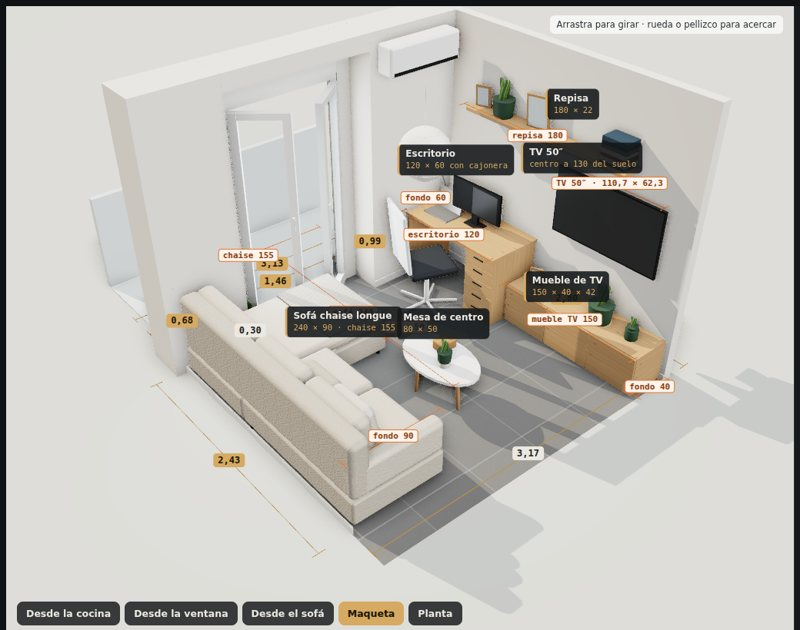
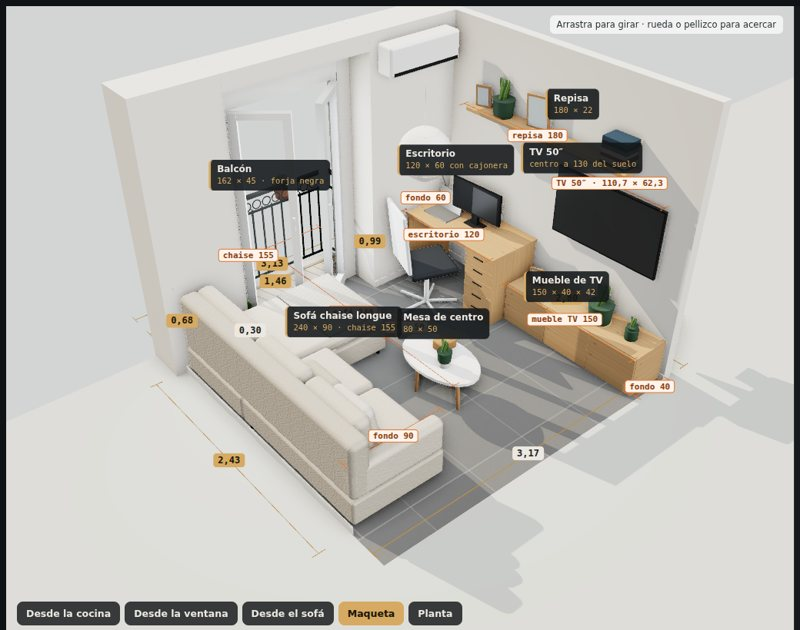
Balcón de asomarse con barandilla de forja negra

Changed region(s): [[0.25, 0.2413, 0.4375, 0.4222], [0.5, 0.4524, 0.5625, 0.4825], [0.3125, 0.4222, 0.3438, 0.4524]]

diff --git a/js/main.js b/js/main.js
@@ -9,7 +9,7 @@ import { GTAOPass } from 'three/addons/postprocessing/GTAOPass.js';
 import { UnrealBloomPass } from 'three/addons/postprocessing/UnrealBloomPass.js';
 import { OutputPass } from 'three/addons/postprocessing/OutputPass.js';
 import { RectAreaLightUniformsLib } from 'three/addons/lights/RectAreaLightUniformsLib.js';
-import { DEFAULT_ROOM, ROOM_LIMITS, T, DEFAULT_FURNITURE, FURNITURE_LIMITS, HEIGHTS, WINDOW, CATALOG, PRESETS, DEFAULT_DESIGN } from './config.js';
+import { DEFAULT_ROOM, ROOM_LIMITS, T, DEFAULT_FURNITURE, FURNITURE_LIMITS, HEIGHTS, WINDOW, BALCONY, CATALOG, PRESETS, DEFAULT_DESIGN } from './config.js';
 import { createTextures } from './textures.js';
 import { panelInfo } from './info.js';
 
@@ -114,7 +114,8 @@ const M = {
   white: std('#F5F5F3', 0.4),
   paper: new THREE.MeshStandardMaterial({ color: '#fbf7ef', roughness: 0.9, emissive: '#ffd9a0', emissiveIntensity: 0, side: THREE.DoubleSide }),
   ground: std('#c9ccc7', 0.95),
-  outside: std('#dfe7e8', 0.9),
+  slab: std('#d6d1c8', 0.7),
+  iron: std('#151617', 0.5, 0.55),
   leaf: std('#4E6B3A', 0.8),
   leafLight: std('#6d8f4a', 0.8),
   pot: std('#EDEAE4', 0.5),
@@ -262,8 +263,9 @@ function buildRoom() {
   const pts = [[0, 0], [nx0, 0], [nx0, zb], [nx1, zb], [nx1, 0], [Wt, 0], [xR(R), R], [0, R]];
   const floor = new THREE.Mesh(new THREE.ShapeGeometry(new THREE.Shape(pts.map(([x, z]) => new THREE.Vector2(x, -z)))), M.floor);
   floor.rotation.x = -Math.PI / 2; floor.receiveShadow = true; roomGroup.add(floor);
-  const ground = new THREE.Mesh(new THREE.PlaneGeometry(80, 80), M.ground);
-  ground.rotation.x = -Math.PI / 2; ground.position.set(Wt / 2, -0.012, L / 2); ground.receiveShadow = true; roomGroup.add(ground);
+  // Suelo de alrededor solo por dentro de la fachada: al otro lado del balcón hay vacío
+  const ground = new THREE.Mesh(new THREE.PlaneGeometry(80, 40), M.ground);
+  ground.rotation.x = -Math.PI / 2; ground.position.set(Wt / 2, -0.012, -nicheD - T + 20); ground.receiveShadow = true; roomGroup.add(ground);
 
   // Rodapié
   const sk = a => B(roomGroup, ...a, M.skirting);
@@ -288,9 +290,8 @@ function buildRoom() {
     roomAnim.push({ obj: p.rotation, key: 'y', closed: 0, open: sign > 0 ? -1.35 : 1.35 });
   };
   leaf(glass0 + 0.06, 1); leaf(glass1 - 0.06, -1);
-  // Exterior: un balcón luminoso
-  B(roomGroup, nx0 - 0.6, nx1 + 0.6, -0.02, 0, zb - T - 1.3, zb - T, M.outside);
-  B(roomGroup, nx0 - 0.6, nx1 + 0.6, 0, 1.0, zb - T - 1.36, zb - T - 1.3, M.outside);
+  // Balcón de asomarse: losa estrecha y barandilla de forja negra
+  balcony(roomGroup, nx0 - 0.08, nx1 + 0.08, zb - T);
 
   // Luz de cielo por la balconera
   skyLights = new THREE.Group(); roomGroup.add(skyLights);
@@ -320,6 +321,38 @@ function buildRoom() {
   dim(dims, [xR(R) + o, y0, 0], [xR(R) + o, y0, R], fmt(R));
   dim(dims, [0, y0, L + 0.25], [xR(L), y0, L + 0.25], fmt(G.Wb), true);
   dim(dims, [nx0 + 0.08, y0, zb], [nx0 + 0.08, y0, 0], fmt(nicheD), true);
+}
+/* Balcón típico de asomarse: losa de 45 cm con goterón y barandilla de forja (barrotes, pasamanos y una cenefa de anillas) */
+function balcony(g, x0, x1, zf) {
+  const b = new THREE.Group(); g.add(b);
+  const D = BALCONY.depth, z1 = zf - D, hR = BALCONY.rail;
+  B(b, x0, x1, -0.14, 0, z1, zf, M.slab);                                   // losa
+  B(b, x0 - 0.01, x1 + 0.01, -0.16, -0.12, z1 - 0.01, zf, M.slab);          // goterón
+  B(b, x0 - 0.3, x1 + 0.3, -0.16, 0, zf - 0.02, zf, M.slab, { cast: false }); // canto de la fachada
+  const bar = (xa, za, xb, zb2, y0, y1) => { const len = Math.hypot(xb - xa, zb2 - za), m = B(b, -0.006, 0.006, y0, y1, -len / 2, len / 2, M.iron); m.position.set((xa + xb) / 2, (y0 + y1) / 2, (za + zb2) / 2); m.rotation.y = Math.atan2(xb - xa, zb2 - za); return m; };
+  const inset = 0.03, fx0 = x0 + inset, fx1 = x1 - inset, fz = z1 + inset;
+  // Pasamanos (pletina) y travesaños
+  B(b, fx0 - 0.02, fx1 + 0.02, hR - 0.03, hR, fz - 0.025, fz + 0.025, M.iron);
+  [[fx0, zf], [fx1, zf]].forEach(([x]) => B(b, x - 0.02, x + 0.02, hR - 0.03, hR, fz - 0.025, zf, M.iron));
+  [0.06, hR - 0.2].forEach(y => { B(b, fx0, fx1, y, y + 0.02, fz - 0.008, fz + 0.008, M.iron); [fx0, fx1].forEach(x => B(b, x - 0.008, x + 0.008, y, y + 0.02, fz, zf, M.iron)); });
+  // Postes en las esquinas
+  [fx0, fx1].forEach(x => B(b, x - 0.015, x + 0.015, 0, hR, fz - 0.015, fz + 0.015, M.iron));
+  // Barrotes cada 11 cm con cenefa de anillas arriba
+  const n = Math.round((fx1 - fx0) / 0.11);
+  for (let i = 1; i < n; i++) {
+    const x = fx0 + (fx1 - fx0) * i / n;
+    B(b, x - 0.007, x + 0.007, 0.06, hR - 0.2, fz - 0.007, fz + 0.007, M.iron);
+    if (i < n) { const r = new THREE.Mesh(new THREE.TorusGeometry(0.045, 0.006, 6, 20), M.iron); r.position.set(x + (fx1 - fx0) / n / 2, hR - 0.12, fz); r.castShadow = true; b.add(r); }
+    // remate en punta de lanza bajo la cenefa
+    const tip = new THREE.Mesh(new THREE.ConeGeometry(0.014, 0.04, 8), M.iron); tip.position.set(x, hR - 0.2 + 0.03, fz); b.add(tip);
+  }
+  // Laterales
+  const ns = Math.max(2, Math.round((zf - fz) / 0.11));
+  [fx0, fx1].forEach(x => { for (let i = 1; i < ns; i++) { const z = fz + (zf - fz) * i / ns; B(b, x - 0.007, x + 0.007, 0.06, hR - 0.2, z - 0.007, z + 0.007, M.iron); } B(b, x - 0.015, x + 0.015, 0, hR, zf - 0.03, zf, M.iron); });
+  // Una maceta colgada en la barandilla
+  cyl(b, 0.11, 0.14, M.terracotta, (x0 + x1) / 2 + 0.35, hR - 0.14, fz - 0.1, 20, 0.13); cyl(b, 0.1, 0.05, M.leaf, (x0 + x1) / 2 + 0.35, hR - 0.04, fz - 0.1, 12);
+  void bar;
+  tag(b, 'Balcón', `${c1(x1 - x0)} × ${c1(D)} · forja negra`, (x0 + x1) / 2, hR + 0.25, zf - D / 2);
 }
 function dim(parent, a, b, text, inner = false, mat = M.dimLine, cls = 'dim') {
   const A = new THREE.Vector3(...a), Bv = new THREE.Vector3(...b);
@@ -610,7 +643,7 @@ function applyNight() {
   scene.environmentIntensity = n ? 0.07 : 0.55;
   scene.background = new THREE.Color(n ? '#0d1116' : '#dfe4e2');
   stage.style.background = n ? '#0d1116' : '#dfe4e2';
-  M.ground.color.set(n ? '#1a1e22' : '#c9ccc7'); M.outside.color.set(n ? '#1b2128' : '#dfe7e8');
+  M.ground.color.set(n ? '#1a1e22' : '#c9ccc7');
   skyLights.children.forEach(l => l.intensity = n ? 0 : 3.4);
   bloom.enabled = n; applyNightFx();
   renderer.toneMappingExposure = n ? 1.2 : 0.9;

diff --git a/index.html b/index.html
@@ -112,7 +112,7 @@
       <div class="label">Supuestos del croquis original</div>
       <ul class="notes">
         <li><b>Paredes:</b> la del sofá mide 2,43 y la de la TV 2,80. La sala mide 3,135 de ancho junto a la ventana (68 + 146 + 99,5) y 3,165 junto a la cocina, así que la pared de la TV se abre 3 cm.</li>
-        <li><b>Ventana:</b> balconera de dos hojas que abren hacia dentro, al fondo de un nicho de 146 × 30,5 cm con 14 cm de pared a cada lado. Unos 2,20 m de alto y el cajón de la persiana encima.</li>
+        <li><b>Ventana:</b> balconera de dos hojas que abren hacia dentro, al fondo de un nicho de 146 × 30,5 cm con 14 cm de pared a cada lado. Unos 2,20 m de alto y el cajón de la persiana encima. Da a un balcón pequeño de asomarse, de unos 45 cm, con barandilla de forja negra.</li>
         <li><b>Lado de la cocina:</b> abierto. Las dos paredes giran hacia fuera al llegar a la cocina.</li>
         <li><b>Muebles:</b> medidas estimadas por la foto (sofá de 2,40 × 0,90 con chaise de 1,55, TV de 50″, mueble bajo de 1,50). Techo a 2,60 m.</li>
       </ul>

diff --git a/js/config.js b/js/config.js
@@ -58,6 +58,7 @@ export const FURNITURE_LIMITS = {
 // Alturas fijas (metros)
 export const HEIGHTS = { seat: 0.44, back: 0.84, desk: 0.74, tvUnit: 0.42, shelf: 1.86, tvCenter: 1.30, coffee: 0.42 };
 export const WINDOW = { h: 2.20, box: 0.22 };   // balconera de dos hojas y cajón de persiana encima
+export const BALCONY = { depth: 0.45, rail: 1.0 }; // balcón de asomarse con barandilla de forja
 
 /*
  * Catálogo de acabados: 4 opciones por categoría, tendencias 2025–2026.

diff --git a/README.md b/README.md
@@ -12,7 +12,7 @@ Puedes probarlo aquí: https://ricardoedreirapenas.github.io/sala-3d/
 
 ## Qué hace
 
-- Parte de mi sala: pared del sofá de 2,43, pared de la TV de 2,80 y 3,135 de ancho junto a la ventana (68 + 146 + 99,5). La ventana es una balconera de dos hojas al fondo de un nicho de 30,5 cm, con 14 cm de pared a cada lado. Junto a la cocina la sala mide 3,165, así que la pared de la TV se abre un poco, y el modelo lo respeta.
+- Parte de mi sala: pared del sofá de 2,43, pared de la TV de 2,80 y 3,135 de ancho junto a la ventana (68 + 146 + 99,5). La ventana es una balconera de dos hojas al fondo de un nicho de 30,5 cm, con 14 cm de pared a cada lado, y da a un balcón pequeño de los de asomarse, con barandilla de forja negra. Junto a la cocina la sala mide 3,165, así que la pared de la TV se abre un poco, y el modelo lo respeta.
 - Tiene dos distribuciones:
   - **A · Como la tengo:** sofá con la chaise hacia la cocina, escritorio en la esquina de la ventana, mueble bajo con la TV colgada encima y una repisa larga por arriba.
   - **B · Chaise a la ventana:** la chaise mira a la luz. Queda bonito, pero el panel avisa de que las hojas de la balconera chocan con ella.
